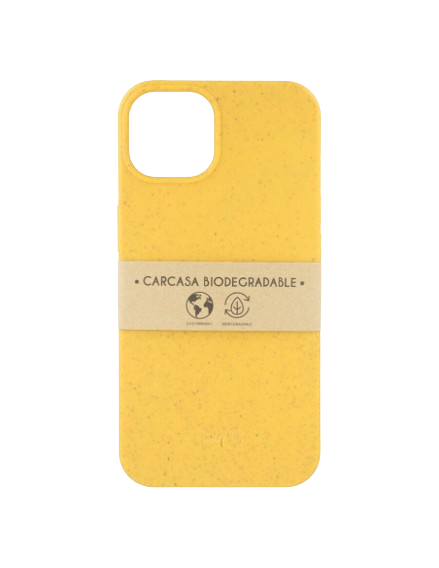
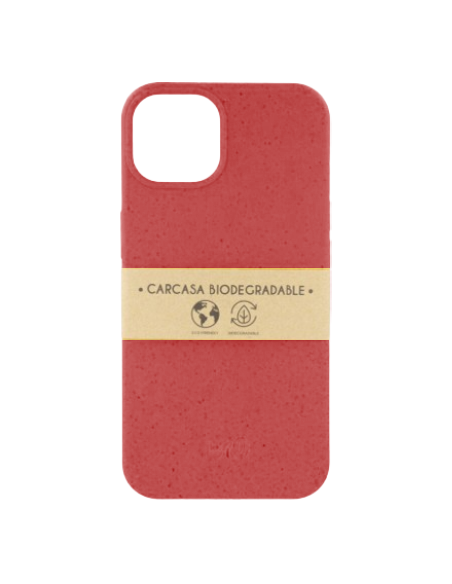
producto casi

Changed region(s): [[0.2665, 0.1197, 0.7403, 0.5088], [0.2665, 0.5687, 0.7403, 0.868]]

diff --git a/js/producto.js b/js/producto.js
@@ -1,19 +1,162 @@
-document.addEventListener("DOMContentLoaded", function() {
-    let thumbs = document.getElementById("thumbs");
-    let largeImg = document.getElementById("largeImg");
+document.addEventListener("DOMContentLoaded", async function() {
+    try {
+        const container = document.getElementById("mainContent");
 
-    thumbs.onclick = function(event) {
-        let thumbnail = event.target.closest('img');
+        // Obtener el id del producto de la URL
+        const idProducto = new URLSearchParams(window.location.search).get('idProducto');
 
-        if (!thumbnail) return;
+        // Fetch para obtener los datos del JSON
+        const responseProductos = await fetch('js/products.json');
+        const productos = await responseProductos.json();
 
-        showThumbnail(thumbnail.src, thumbnail.parentElement.title);
+        const responseCategorias = await fetch('js/categorias.json');
+        const categorias = await responseCategorias.json();
 
-        event.preventDefault();
-    };
+        // Encontrar el producto correspondiente al idProducto
+        const producto = productos.find(producto => producto.id === parseInt(idProducto));
 
-    function showThumbnail(src, title) {
-        largeImg.src = src;
-        largeImg.alt = title;
+        // Verificar si se encontró el producto
+        if (producto) {
+            // Obtener los productos que tienen la misma id de categoría que el producto actual
+            const productosRelacionados = productos.filter(p => p.idCategoria === producto.idCategoria && p.id !== producto.id);
+
+            // Obtener los modelos de los productos relacionados
+            const modelosProductosRelacionados = productosRelacionados.map(p => p.modelo).filter(modelo => modelo);
+
+            // Generar el HTML del producto y los modelos de los productos relacionados
+            const productoHTML = generarProductoHTML(producto, modelosProductosRelacionados);
+            container.innerHTML = productoHTML;
+
+            // Asignar event listener a las miniaturas después de que se ha generado el contenido
+            asignarEventListeners(productos);
+        } else {
+            console.error('Producto no encontrado');
+        }
+
+    } catch (error) {
+        console.error('Error al obtener los datos:', error);
+    }
+
+    function generarProductoHTML(producto, modelosProductosRelacionados) {
+        return `
+            <div class="container mt-5">
+                <div class="row">
+                    <div class="col-md-6">
+                        <div class="text-center">
+                            <div id="capaImagenProducto" class="">
+                                <p><img id="largeImg" src="${producto.imagenes[0]}" alt="Imagen grande"></p>
+                                <ul id="thumbs" class="text-center ">
+                                    ${producto.imagenes?.slice(1).map((imagen, index) => `
+                                        <li><a href="#" title="Imagen ${index + 2}"><img src="${imagen}"></a></li>
+                                    `).join('')}
+                                </ul>
+                            </div>
+                        </div>
+                    </div>
+                    <div class="col-md-6">
+                        <div class="col-12">
+                            <h1 class="text fw-bold" id="categoria">${producto.idCategoria.charAt(0).toUpperCase() + producto.idCategoria.slice(1)}</h1>
+                            <h5>${producto.nombre}</h5>
+                            <hr>
+                            <label for="selectModelo" class="form-label">Modelo de iPhone</label>
+                            <select class="form-select mt-4 " id="selectModelo">
+                                <option value="nada">Selecciona el modelo</option>
+                                ${modelosProductosRelacionados.map(modelo => `<option value="${modelo}">${modelo}</option>`).join('')}
+                            </select>
+                            <hr class="mt-5 ">
+                            ${producto.colores ? `
+                                <div class="row">
+                                    ${producto.colores.map(color => `
+                                        <div class="col-4 d-flex justify-content-center">
+                                            <div class="color-circle" style="background-color: ${color}; cursor: pointer;" data-color="${color}"></div>
+                                        </div>
+                                    `).join('')}
+                                </div>
+                                <hr class="mb-4 ">
+                            ` : ''}
+                            <div class="row">
+                                <p>${producto.descripcion}</p>
+                            </div>
+                            <hr>
+                            <div class="row justify-content-end">
+                                <div class="col-9">
+                                    <button type="button" class="btn btn-dark  w-100">
+                                        <i class="bi-cart3">
+                                            <p class="d-inline fw-bold fst-normal"> Añadir al carrito</p>
+                                        </i>
+                                    </button>
+                                </div>
+                                <div class="col-2">
+                                    <button type="button" class="btn btn-white border-1 border-black text-start ">
+                                        <i class="bi-heart"></i>
+                                    </button>
+                                </div>
+                            </div>
+                        </div>
+                    </div>
+                </div>
+            </div>
+        `;
+    }
+
+    function asignarEventListeners(productos) {
+        let thumbs = document.getElementById("thumbs");
+        let largeImg = document.getElementById("largeImg");
+        let selectModelo = document.getElementById("selectModelo");
+
+        thumbs.onclick = function(event) {
+            let thumbnail = event.target.closest('img');
+
+            if (!thumbnail) return;
+
+            showThumbnail(thumbnail.src, thumbnail.parentElement.title);
+
+            event.preventDefault();
+        };
+
+        // Agregar event listener a los círculos de color
+        document.querySelectorAll('.color-circle').forEach(circle => {
+            circle.addEventListener('click', function() {
+                const color = this.dataset.color;
+                cambiarColorImagen(color);
+            });
+        });
+
+        selectModelo.addEventListener('change', function() {
+            const selectedModelo = selectModelo.value;
+            // Buscar el producto correspondiente al modelo seleccionado y que también sea de la misma categoría
+            const productoSeleccionado = productos.find(p => p.modelo === selectedModelo && p.idCategoria === document.getElementById("categoria").innerText.toLowerCase());
+
+            if (productoSeleccionado) {
+                // Obtener la ID del producto seleccionado
+                const idProductoSeleccionado = productoSeleccionado.id;
+                // Redireccionar a la página del producto seleccionado
+                window.location.href = `../producto.html?idProducto=${idProductoSeleccionado}`;
+            }
+        });
+
+        function showThumbnail(src, title) {
+            largeImg.src = src;
+            largeImg.alt = title;
+        }
+        function cambiarColorImagen(color) {
+            // Obtener el elemento de la imagen
+            const imagen = document.getElementById('largeImg');
+            // Aplicar el filtro de color utilizando CSS
+            imagen.style.filter = `hue-rotate(${getColorRotation(color)}deg)`;
+        }
+
+        function getColorRotation(color) {
+            // Definir un mapeo de colores y sus rotaciones de matiz asociadas
+            const colorRotations = {
+                "red": 0,
+                "yellow":60,
+                "green": 120,
+                "blue": 240
+            };
+            // Devolver la rotación de matiz asociada al color
+            return colorRotations[color] || 0; // Si el color no está en el mapeo, no se aplica ninguna rotación
+        }
+
     }
 });

diff --git a/producto.html b/producto.html
@@ -4,7 +4,7 @@
     <meta charset="UTF-8">
     <meta name="viewport" content="width=device-width, initial-scale=1.0">
     <title>CrocoShield</title>
-    <link rel="icon" href="img/logos/logo.png ">
+    <link rel="icon" href="img/logos/logoIcon.png">
     <link href="https://cdn.jsdelivr.net/npm/bootstrap@5.0.2/dist/css/bootstrap.min.css" rel="stylesheet" integrity="sha384-EVSTQN3/azprG1Anm3QDgpJLIm9Nao0Yz1ztcQTwFspd3yD65VohhpuuCOmLASjC" crossorigin="anonymous">
     <link href="https://cdn.jsdelivr.net/npm/bootstrap@5.0.2/dist/css/bootstrap.min.css" rel="stylesheet" integrity="sha384-EVSTQN3/azprG1Anm3QDgpJLIm9Nao0Yz1ztcQTwFspd3yD65VohhpuuCOmLASjC" crossorigin="anonymous">
     <script src="https://cdn.jsdelivr.net/npm/bootstrap@5.0.2/dist/js/bootstrap.bundle.min.js" integrity="sha384-MrcW6ZMFYlzcLA8Nl+NtUVF0sA7MsXsP1UyJoMp4YLEuNSfAP+JcXn/tWtIaxVXM" crossorigin="anonymous"></script>
@@ -64,72 +64,8 @@
         </div>
     </nav>
 
-    <div class="container mt-5">
-        <div class="row">
-            <div class="col-md-6"> <!-- Esta columna ocupará la mitad del ancho -->
-                <!-- Contenido de la mitad izquierda -->
-                <div class="text-center">
-                    <!-- Contenido de la capa de imagen -->
-                    <div id="capaImagenProducto" class="">
-                        <p><img id="largeImg" src="img/productos/iphone12MiniCustom.png" alt="Imagen grande"></p>
-                        <ul id="thumbs" class="text-center ">
-                            <!-- Miniaturas de imágenes -->
-                            <li>
-                                <a href="#" title="Imagen 2"><img src="img/productos/iphone12MiniCustom.png"></a>
-                            </li>
-                            <li>
-                                <a href="#" title="Imagen 3"><img src="img/productos/iphone13MiniCustom.png"></a>
-                            </li>
-                            <li>
-                                <a href="#" title="Imagen 4"><img src="img/productos/iphone14EcoF.png"></a>
-                            </li>
-                        </ul>
-                    </div>
-                </div>
-            </div>
-            <div class="col-md-6"> <!-- Esta columna ocupará la otra mitad del ancho -->
-                <!-- Contenido de la mitad derecha -->
-                    <!-- Contenido del texto -->
-                    <div class="col-12">
-                        <h1 class="text fw-bold"> SolidSuit</h1>
-                        <h5>Funda </h5>
-                        <hr>
-                        <label for="selectModelo" class="form-label">Modelo de iPhone</label>
-                        <select class="form-select mt-4 " id="selectModelo">
-                            <option value="nada">Selecciona el modelo</option>
-                            <!-- Aquí van lps modelos cargados desde el js -->
-                        </select>
-                        <hr class="mt-5 ">
-                        <div class="row">
-                            <div class="col-4 d-flex justify-content-center ">
-                              <div class="color-circle" style="background-color: rgb(84, 127, 144);"></div>
-                            </div>
-                            <div class="col-4 d-flex justify-content-center  ">
-                              <div class="color-circle" style="background-color: rgb(184, 126, 27);"></div>
-                            </div>
-                            <div class="col-4 d-flex justify-content-center ">
-                                <div class="color-circle" style="background-color: rgb(0, 0, 0);"></div>
-                            </div>
-                        </div>
-                        <hr class="">
-                        <div class="row justify-content-end">
-                            <div class="col-9">
-                                <button type="button" class="btn btn-danger w-100">
-                                    <i class="bi-cart3">
-                                        <p class="d-inline fw-bold fst-normal"> Añadir al carrito</p>
-                                    </i>
-                                </button>
-                            </div>
-                            <div class="col-2">
-                                <button type="button" class="btn btn-white border-1 border-black text-start ">
-                                    <i class="bi-heart"></i>
-                                </button>
-                            </div>
-                        </div>
-                    </div>
-                    <!-- Otras secciones del contenido -->
-            </div>
-        </div>
+    <div class="container mt-5" id="mainContent">
+        
     </div>
     
  

diff --git a/js/categoriasJS.js b/js/categoriasJS.js
@@ -3,6 +3,7 @@ document.addEventListener("DOMContentLoaded", async function() {
     const selectFundas = document.getElementById('selectFundas');
     const selectModelo = document.getElementById('selectModelo');
     const fundas = document.querySelector('.grid-container');
+    const inputBusqueda = document.getElementById('inputBusqueda');
 
     try {
         const [categoriasResponse, productosResponse] = await Promise.all([
@@ -57,6 +58,14 @@ document.addEventListener("DOMContentLoaded", async function() {
         selectFundas.addEventListener('change', function() {
             redirigirSegunCategoria(categoriasResponse);
         });
+
+        // Agregar event listener para el input de búsqueda
+        inputBusqueda.addEventListener('input', function() {
+            const textoBusqueda = inputBusqueda.value.trim().toLowerCase();
+            const productosFiltrados = filtrarProductosPorBusqueda(productosResponse, textoBusqueda);
+            renderizarProductos(productosFiltrados);
+        });
+
     } catch (error) {
         console.error('Error al obtener los datos:', error);
     }
@@ -114,7 +123,24 @@ document.addEventListener("DOMContentLoaded", async function() {
             cardMaker(producto);
         });
     }
+
+    function filtrarProductosPorBusqueda(productos, texto) {
+        if (!texto) {
+            return productos; // Si no hay texto de búsqueda, mostrar todos los productos
+        }
+        return productos.filter(producto =>
+            (producto.nombre && producto.nombre.toLowerCase().includes(texto)) ||
+            (producto.categoria && producto.categoria.toLowerCase().includes(texto))
+        );
+    }
     
+
+    function renderizarProductos(productos) {
+        fundas.innerHTML = ''; // Limpiar las cartas existentes antes de agregar las nuevas
+        productos.forEach(producto => {
+            cardMaker(producto);
+        });
+    }
 
     function redirigirSegunCategoria(categoriasResponse) {
         const idSeleccionado = selectFundas.value;
@@ -127,5 +153,4 @@ document.addEventListener("DOMContentLoaded", async function() {
         }
     }
 
-    
 });

diff --git a/index.html b/index.html
@@ -4,7 +4,7 @@
     <meta charset="UTF-8">
     <meta name="viewport" content="width=device-width, initial-scale=1.0">
     <title>CrocoShield</title>
-    <link rel="icon" href="img/logos/logo.png ">
+    <link rel="icon" href="img/logos/logoIcon.png">
     <link href="https://cdn.jsdelivr.net/npm/bootstrap@5.0.2/dist/css/bootstrap.min.css" rel="stylesheet" integrity="sha384-EVSTQN3/azprG1Anm3QDgpJLIm9Nao0Yz1ztcQTwFspd3yD65VohhpuuCOmLASjC" crossorigin="anonymous">
     <link href="https://cdn.jsdelivr.net/npm/bootstrap@5.0.2/dist/css/bootstrap.min.css" rel="stylesheet" integrity="sha384-EVSTQN3/azprG1Anm3QDgpJLIm9Nao0Yz1ztcQTwFspd3yD65VohhpuuCOmLASjC" crossorigin="anonymous">
     <script src="https://cdn.jsdelivr.net/npm/bootstrap@5.0.2/dist/js/bootstrap.bundle.min.js" integrity="sha384-MrcW6ZMFYlzcLA8Nl+NtUVF0sA7MsXsP1UyJoMp4YLEuNSfAP+JcXn/tWtIaxVXM" crossorigin="anonymous"></script>

diff --git a/nuestrasFundas.html b/nuestrasFundas.html
@@ -4,7 +4,7 @@
     <meta charset="UTF-8">
     <meta name="viewport" content="width=device-width, initial-scale=1.0">
     <title>CrocoShield</title>
-    <link rel="icon" href="img/logos/logo.png ">
+    <link rel="icon" href="img/logos/logoIcon.png">
     <link href="https://cdn.jsdelivr.net/npm/bootstrap@5.0.2/dist/css/bootstrap.min.css" rel="stylesheet" integrity="sha384-EVSTQN3/azprG1Anm3QDgpJLIm9Nao0Yz1ztcQTwFspd3yD65VohhpuuCOmLASjC" crossorigin="anonymous">
     <link href="https://cdn.jsdelivr.net/npm/bootstrap@5.0.2/dist/css/bootstrap.min.css" rel="stylesheet" integrity="sha384-EVSTQN3/azprG1Anm3QDgpJLIm9Nao0Yz1ztcQTwFspd3yD65VohhpuuCOmLASjC" crossorigin="anonymous">
     <script src="https://cdn.jsdelivr.net/npm/bootstrap@5.0.2/dist/js/bootstrap.bundle.min.js" integrity="sha384-MrcW6ZMFYlzcLA8Nl+NtUVF0sA7MsXsP1UyJoMp4YLEuNSfAP+JcXn/tWtIaxVXM" crossorigin="anonymous"></script>

diff --git a/css/styles.css b/css/styles.css
@@ -157,17 +157,19 @@ nav {
 
 /* estilos producto */
 #thumbs a {
-
     padding: 3px;
     margin: 2px;
     float: left;
+    
   }
   #thumbs img {
     width: 100px;
     padding: 3px;
     margin: 2px;
     float: left;
+    
   }
+
 
 #thumbs a:hover {
     border-color: #FF9900;
